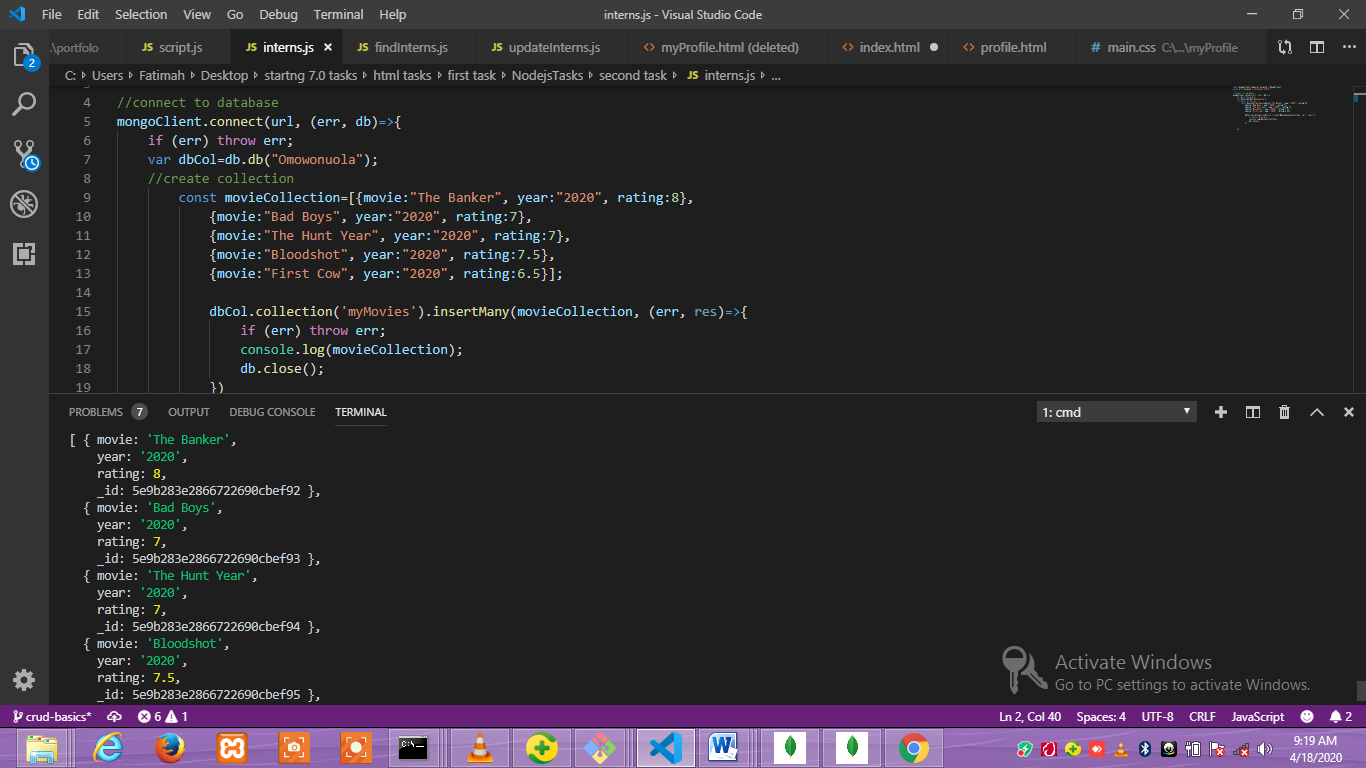
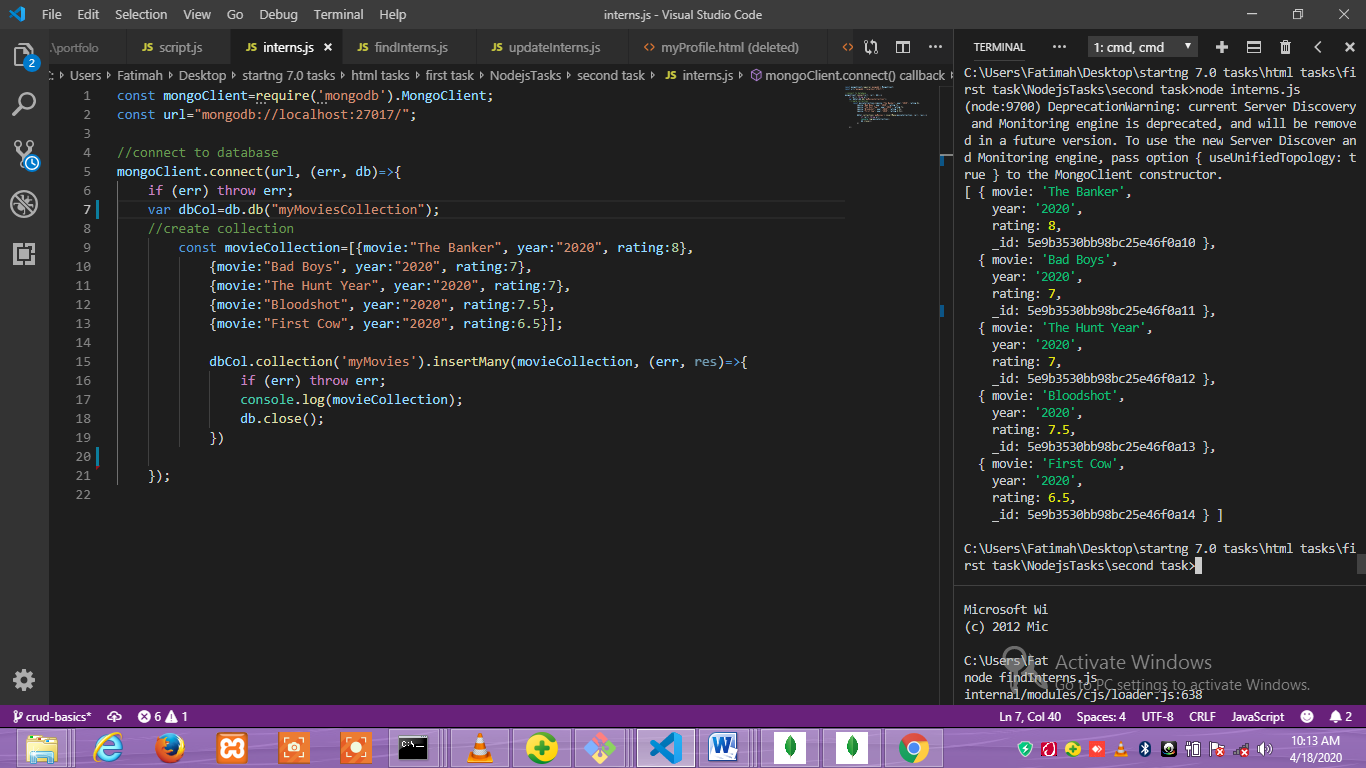
collection and queries screenshots

diff --git a/findInterns.js b/findInterns.js
@@ -1,35 +1,30 @@
 const mongoClient=require('mongodb').MongoClient;
 const url="mongodb://localhost:27017/";
-const internCollection=require('./interns.js');
 
 
 //connect to database
 mongoClient.connect(url, (err, db)=>{
     if (err) throw err;
-    var dbCol=db.db("Omowonuola");
+    var dbCol=db.db("myMoviesCollection");
         //get the first document form the collection
         dbCol.collection('myMovies').findOne({}, (err, result)=>{
             if (err) throw err;
             console.log("Queried the first document in the collection");
             console.log(result);
-            db.close();
+            });
+
+            //get the movie with a rating of "7"
+            dbCol.collection('myMovies').find({rating:7}).toArray((err, result)=>{
+                if (err) throw err;
+                console.log("Got the document that has a rating of '7'");
+                console.log(result);
             });
 //get the list of movie titles alone
             dbCol.collection('myMovies').find({}, {projection: {_id:0, movie:1}}).toArray(function(err, result){
                 if(err) throw err;
                 console.log("got the list of movie title only");
                 console.log(result);
-                db.close();
+                db.close(); 
             });
-//get the movie with a rating of "7"
-            var queryRate={rating:7};
-            dbCol.collection('myMovies').find(queryRate).toArray((err, result)=>{
-                if (err) throw err;
-                console.log("Got the document that has a rating of '7'");
-                console.log(result);
-                db.close();
-            });
-
-
 
     });

diff --git a/interns.js b/interns.js
@@ -4,7 +4,7 @@ const url="mongodb://localhost:27017/";
 //connect to database
 mongoClient.connect(url, (err, db)=>{
     if (err) throw err;
-    var dbCol=db.db("Omowonuola");
+    var dbCol=db.db("myMoviesCollection");
     //create collection
         const movieCollection=[{movie:"The Banker", year:"2020", rating:8},
             {movie:"Bad Boys", year:"2020", rating:7},
@@ -17,6 +17,5 @@ mongoClient.connect(url, (err, db)=>{
                 console.log(movieCollection);
                 db.close();
             })
-       
       
     });

diff --git a/updateInterns.js b/updateInterns.js
@@ -9,7 +9,8 @@ mongoClient.connect(url, (err, db)=>{
     var dbCol=db.db("Omowonuola");
     //create collection
 
-        dbCol.collection('myMovies').updateOne({movie:"The Banker"}, {$set: {movie:"Miracle in cell n0.7", year:"2019", rating:9}}, function(err, result){
+        dbCol.collection('myMovies').updateOne({movie:"The Banker"}, 
+        {$set: {movie:"Miracle in cell n0.7", year:"2019", rating:9}}, function(err, result){
             if (err) throw err;
             console.log(result);
             db.close();
